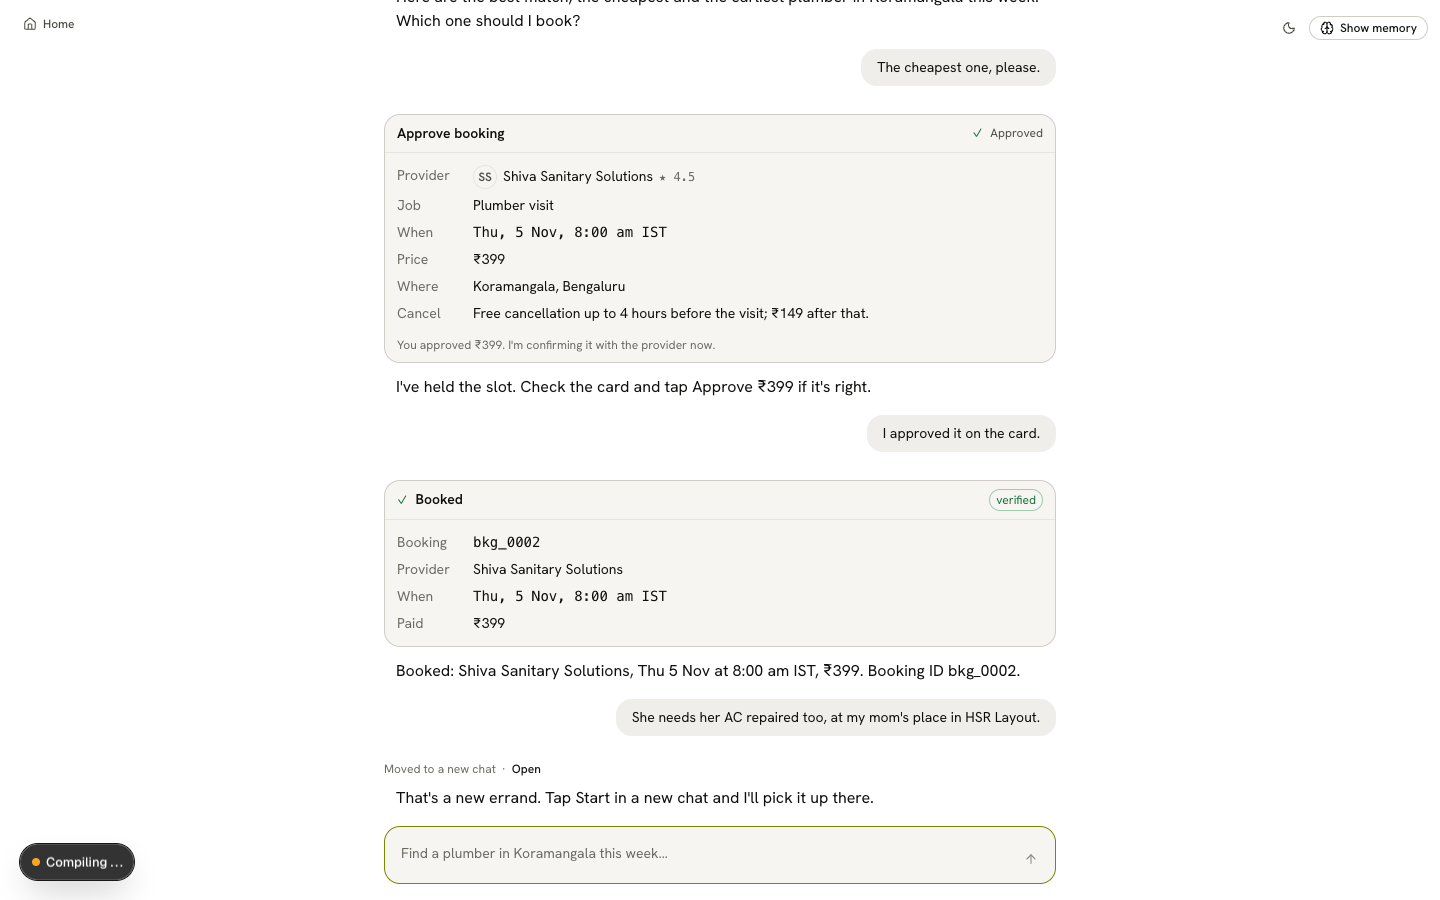
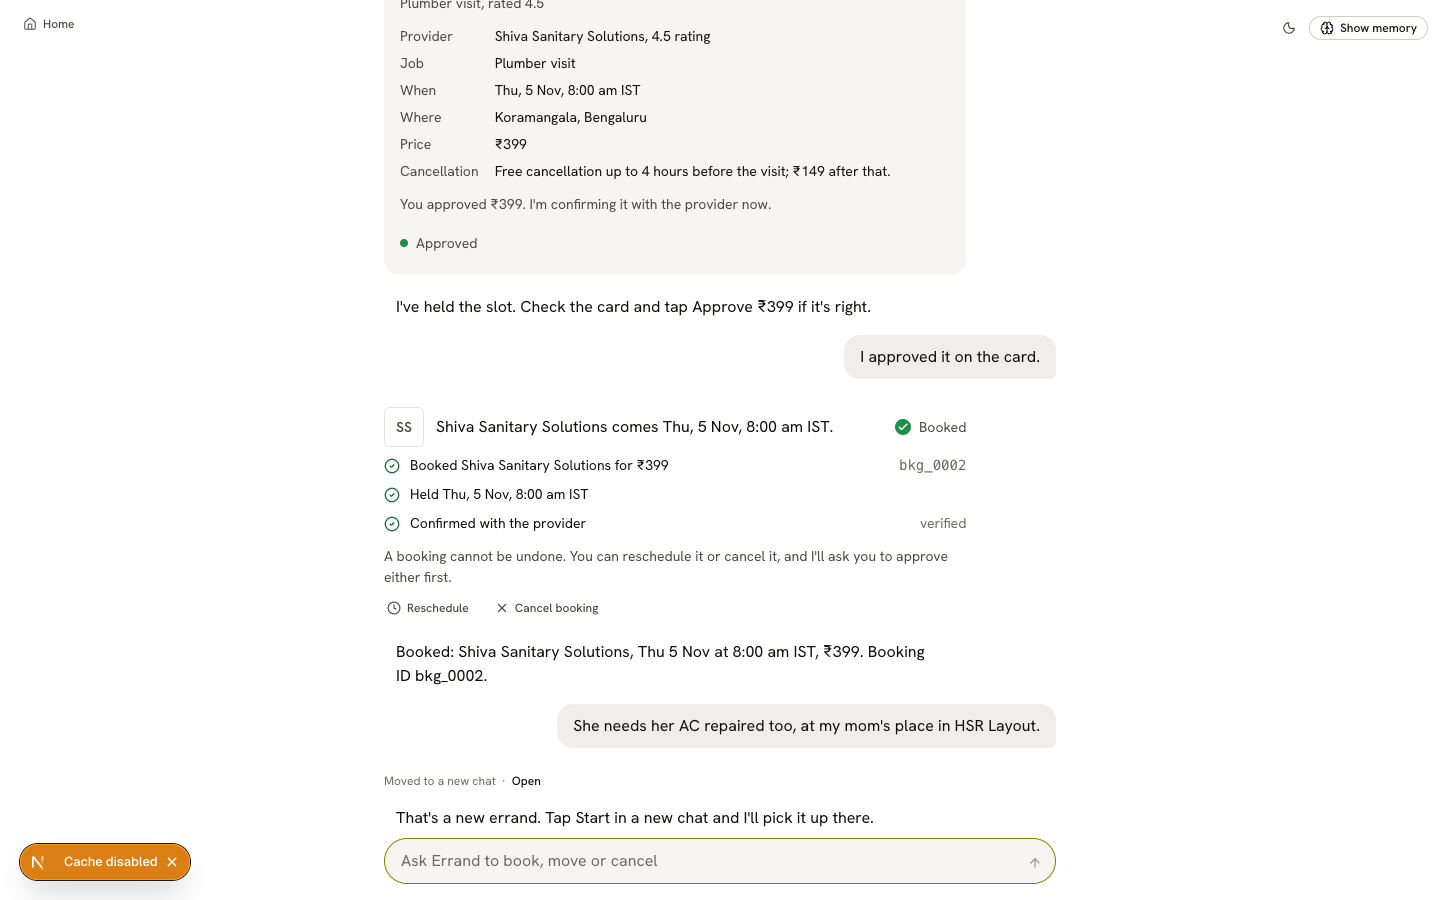
Ticket 24: post-rebase evidence, feature map result, ticket checkboxes

diff --git a/.claude/skills/verify-errand/features/README.md b/.claude/skills/verify-errand/features/README.md
@@ -40,7 +40,7 @@ on: rerun the suite for yours. A mapped feature with no run on your source is **
 | Home screen | 13, 23 | `/`; setup switches the world (`POST /api/v1/dev/scenario` `new_user` for empty states), seeds memory, loads a model script or faults the world | heading `Good morning` / `Good afternoon` / `Good evening` (IST, from the backend's clock: assert `role=heading[name=/^Good (morning|afternoon|evening)$/]`) and `What errand should I handle?`; form `New errand` (a `data-focus-shell`) with textbox `Describe your errand`, chips `Area: VALUE (from memory)`, `Budget: …`, `Time: …`, `Model: …`, button `Start errand`; group `Suggestions`; region `Book a service` with group `Services` (a `button` per tile, `data-service`); regions `In progress` (only while something runs), `Upcoming` (list `Upcoming visits`), `Alerts` (list `Waiting on you` with links `Review approval: PROVIDER` and buttons `Confirm in memory: LABEL VALUE`, list `Recent alerts` with a `link` per provider alert; empty `No alerts right now`); top bar button `Home, N waiting on you`, `Search` (⌘K command menu), `Memory` (opens dialog `Memory`), theme toggle, `Notifications, N`; `api GET /api/v1/home`, `POST /api/v1/sessions/:id/errand`, trace event `composer → errand: …` | [home.json](../../../../verification/suites/home.json) | PASS (scripted, 8 scenarios, run `t23-h-200448`: chips become the errand before the first turn, an approval in Alerts opens the chat focused on the card, empty states for a new user, light first then the toggle persists, populated home dark/light at 1440 and 390), see the ticket 23 PR |
 | Provider cancellation | 14 | `/` and `/chat/SESSION?proposal=ID`; setup seeds `happy_path`, the saved preferences (`api PUT /api/v1/dev/memory`) and the rebooking model script, then fires `api POST /api/v1/dev/world-events/provider-cancelled` (`{"bookingId":"bkg_seed_3","eventId":"…"}`; use a new `eventId` per scenario: eve keeps chats across a world reset and a notice's chat comes from its event id) | `list "Recent alerts"` with a `link` per alert (`Ravi Aircon Experts cancelled Mon 9 Nov · 11:00`, `1 replacement ready · needs approval`, then `Rebooked` / `replacement booked`), button `Notifications, N` opening a `link` `PROVIDER cancelled a booking`; in the chat region `Provider update` (`role=status`), region `Approve booking`, `[data-proposal-id]:focus`; `api GET /api/v1/home` (`alerts[*].replacementsReady`, `proposalId`, `rebooked`, `counts.alerts`), `/api/v1/bookings` (`cancelledBy`), `/api/v1/sessions/current/proposals` | [provider-cancellation.json](../../../../verification/suites/provider-cancellation.json) | PASS (scripted, 4 scenarios: unprompted notice, Alerts and bell link to the chat at the focused card, one booking only after the tap then Rebooked; duplicate and second event change nothing; past booking tells nobody; phone light; run `t14-final2`; screenshots in `docs/evidence/14/`), see the ticket 14 PR |
 | Booking changes (cancel, reschedule, same provider as last time) | 10 | `/chat`, "Move my AC servicing to Saturday", "Cancel my AC servicing booking" or "Book the same electrician as last time…"; setup seeds `happy_path` or `reschedule_conflict` (seed 42: the person's AC service `bkg_seed_3` on Mon 9 Nov 11:00), empties memory and loads the change model script | region `Approve reschedule` (rows `Booking`, `When` old struck through → new, `Price`, `Valid N:NN left`; buttons `Approve move`, `Other times`, `Keep current time`), region `Approve cancellation` (`Fee` `No fee` or `₹N`, `Terms`; buttons `Approve free cancellation` / `Approve ₹N`, `Keep booking`); receipts region `Moved`, `Cancelled`, `Not changed` (`Not moved` / `Not cancelled` with the reason), `Checking the change`; the chat has no trace rail to close (ticket 19); `api GET /api/v1/bookings` (`bookings[*].status`, `bookings[*].slot.start`, `bookings[*].changes[*].action/status/grantConsumed`), `/api/v1/sessions/current/action-intents` (`action`, `attempts`), `/api/v1/sessions/current/proposals`, `/api/v1/sessions/current/trace --as operator` (`execute_tool cancel`, `execute_tool list_bookings`) | [booking-changes.json](../../../../verification/suites/booking-changes.json) | PASS (scripted, 4 scenarios, dark and light, desktop and phone; run `t10-final2`; screenshots in `docs/evidence/10/`), see the ticket 10 PR |
-| New errand hand-off | 24 | `/chat`, book a plumber (setup seeds `happy_path`, empties memory and loads the booking script), then ask for a different job; before tapping Start, load the new chat's first turn with `api PUT /api/v1/dev/model-script` (the scripted model counts turns per chat) | region `New errand` (rows `Job`, `Where`, `When`, "Your … booking in … stays as it is."), buttons `Start in a new chat`, `Not now`; in the new chat `link "Open your AREA SERVICE chat"` ("Started from …"), `textarea[aria-label="Message the errand agent"]:focus`; back in the old chat `link "Open the new chat"` ("Moved to a new chat"), "New errand not started." after Not now; `api GET /api/v1/sessions/current/handoffs`, `/sessions/current/errand`, `/sessions/current/trace --as operator` (`new errand card → errand: …`), `/bookings`. Dark is the app's toggle (`Switch to dark theme`), not the scenario's OS theme | [new-errand-handoff.json](../../../../verification/suites/new-errand-handoff.json) | see the ticket 24 PR |
+| New errand hand-off | 24 | `/chat`, book a plumber (setup seeds `happy_path`, empties memory and loads the booking script), then ask for a different job; before tapping Start, load the new chat's first turn with `api PUT /api/v1/dev/model-script` (the scripted model counts turns per chat) | region `New errand` (rows `Job`, `Where`, `When`, "Your … booking in … stays as it is."), buttons `Start in a new chat`, `Not now`; in the new chat `link "Open your AREA SERVICE chat"` ("Started from …"), `textarea[aria-label="Message the errand agent"]:focus`; back in the old chat `link "Open the new chat"` ("Moved to a new chat"), "New errand not started." after Not now; `api GET /api/v1/sessions/current/handoffs`, `/sessions/current/errand`, `/sessions/current/trace --as operator` (`new errand card → errand: …`), `/bookings`. Dark is the app's toggle (`Switch to dark theme`), not the scenario's OS theme | [new-errand-handoff.json](../../../../verification/suites/new-errand-handoff.json) | PASS (scripted, 3 scenarios: move to a new chat in light and in dark, Not now; on the rebased head after ticket 21, with every other suite also PASS; run `t24-e200616`; screenshots in `docs/evidence/24/`), see the ticket 24 PR |
 | Generated UI in chat | 17 | `/chat`, a search, then a turn that calls `present_ui` / `ask_ui`; setup seeds `happy_path`, empties memory (`api PUT /api/v1/dev/memory {"facts":[]}`) and loads a model script that draws OpenUI | region `Options for SERVICE in AREA` with an `article` per choice card (photo `img`, highlight, `₹PRICE`, `Earliest: …`, buttons `Choose`, `Details`), button `See all N` / `Show fewer` opening region `Search results for SERVICE in AREA` (a `listitem` per provider), region `PROVIDER details` (gallery `img`s, terms); `form "QUESTION"` with `option`s per chip and `Send`; `figure "Price chart"` (a `row` per provider), `figure "Free slots per day"` (a day `button` per day), the spend chart; region `Ready for me to go on?` (pick-one list); the line "This part couldn't be drawn here, so the reply says it in text."; region `Next options` after a taken slot; `api GET /api/v1/bookings`, `/api/v1/sessions/current/proposals`, `/api/v1/sessions/current/errand`, `/api/v1/sessions/current/trace` (`generated_ui` events) | [generated-ui.json](../../../../verification/suites/generated-ui.json) | PASS (scripted, 5 scenarios, dark and light; run `t17-081749`; screenshots in `docs/evidence/17/`), see the ticket 17 PR |
 | Images in generative UI | 22 | `/` (23's Book a service tiles and suggestion pills, photos in their media slots), `/chat` (choice cards, Details, a `ServiceChoices` ask, and the provider thumbnail in the `media` slot of 21's ApprovalRequest and ActionReceipt), `/design` (Images and photo credits); setup seeds `happy_path` or `untrusted_images` (every image key hostile), empties memory and loads a model script | `role=img[name=ALT]` inside region `Options for …`, `Which AC service?`, `Approve booking`, `Booked`, group `Services`, group `Suggestions`, list `Photos of past work`; `[data-image-state=loading|loaded|fallback]`; `[data-option-id=ID]`; `network --resource-type image --not-path "/_next/static/media/*" --expect-count 0`; `api GET /api/v1/services` | [images.json](../../../../verification/suites/images.json) | PASS (scripted, 5 scenarios: registry photos on cards and details, and the thumbnail on the approval card and receipt in light and dark; service choice; home tiles; a hostile world and a smuggling reply that fetch no image at all, the approval card and receipt keeping 21's initials; run `t22-rebase23`; screenshots in `docs/evidence/22/`), see the ticket 22 PR |
 

diff --git a/.scratch/errand-agent/issues/24-new-errand-handoff.md b/.scratch/errand-agent/issues/24-new-errand-handoff.md
@@ -12,10 +12,11 @@ The agent's instructions change too. When the person asks for a different job an
 
 **Status:** ready-for-agent
 
-- [ ] A search refused because the errand isn't editable renders the New errand card, with service, area and when from the search, and never an outcome code
-- [ ] Start in a new chat creates a session, saves the draft before the first turn, sends the person's words, and navigates there; the first agent turn already sees the area, so it doesn't ask for it again
-- [ ] The old chat shows "Moved to a new chat · Open" after a reload, the new chat links back, and the old booking is unchanged (world state checked through the API)
-- [ ] Not now dismisses the card, and the person can still type in the old chat
-- [ ] An offline eval: in a booked errand, "she needs her AC repaired in HSR" leads to the card and not to a "start a new request" paragraph, and nothing is booked or held
-- [ ] A verify-errand suite drives the whole hand-off (book, ask for a new job, Start in a new chat, land in the new chat with the area set, go back, see the moved line). Its screenshots, in light and dark, are attached; the suite fails on a plant
+- [x] A search refused because the errand isn't editable renders the New errand card, with service, area and when from the search, and never an outcome code
+- [x] Start in a new chat creates a session, saves the draft before the first turn, sends the person's words, and navigates there; the first agent turn already sees the area, so it doesn't ask for it again
+- [x] The old chat shows "Moved to a new chat · Open" after a reload, the new chat links back, and the old booking is unchanged (world state checked through the API)
+- [x] Not now dismisses the card, and the person can still type in the old chat
+- [x] An offline eval: in a booked errand, "she needs her AC repaired in HSR" leads to the card and not to a "start a new request" paragraph, and nothing is booked or held
+- [x] A verify-errand suite drives the whole hand-off (book, ask for a new job, Start in a new chat, land in the new chat with the area set, go back, see the moved line). Its screenshots, in light and dark, are attached; the suite fails on a plant
 - [ ] The card follows v3 (Lime): one lime action, layout motion with Lime's tokens, instant under reduced motion, and focus moves to the new chat's composer after the move
+  (Not fully met: one lime action, Lime's tokens and the composer focus are proven in the browser; "instant under reduced motion" is in the code only, `useReducedMotion` zeroes the durations, and no browser run proved it.)
